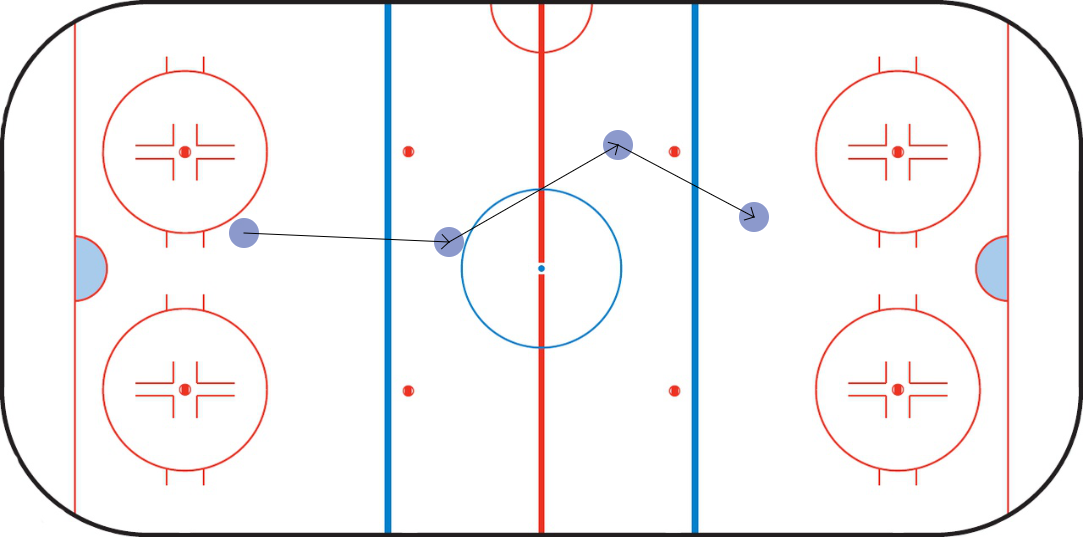
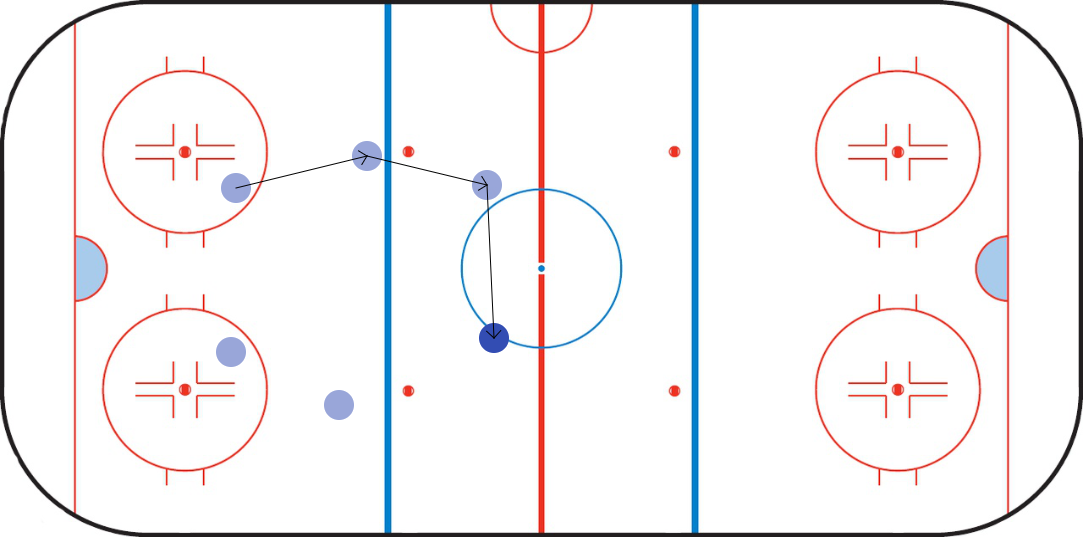
update TR

diff --git a/VisuaLing/src/gui/Interface_temps_reelController.java b/VisuaLing/src/gui/Interface_temps_reelController.java
@@ -1761,21 +1761,21 @@ public class Interface_temps_reelController extends Application implements Initi
                                 path.setLayoutY((0-j.getListeDeplacement().get(0).y));
                                 path.getElements().add(new MoveTo(j.getListeDeplacement().get(0).x,j.getListeDeplacement().get(0).y));
                                 
-                                pathRole.setLayoutX((0-j.getListeDeplacement().get(0).x)+0);
-                                pathRole.setLayoutY((0-j.getListeDeplacement().get(0).y)-0);
+                                pathRole.setLayoutX((0-j.getListeDeplacement().get(0).x)+20);
+                                pathRole.setLayoutY((0-j.getListeDeplacement().get(0).y)-15);
                                 pathRole.getElements().add(new MoveTo(j.getListeDeplacement().get(0).x,j.getListeDeplacement().get(0).y));
                                 
                                 
-                                pathOrientation.setLayoutX((0-j.getListeDeplacement().get(0).x)-0);
-                                pathOrientation.setLayoutY((0-j.getListeDeplacement().get(0).y)-0);
+                                pathOrientation.setLayoutX((0-j.getListeDeplacement().get(0).x)-6);
+                                pathOrientation.setLayoutY((0-j.getListeDeplacement().get(0).y)-35);
                                 pathOrientation.getElements().add(new MoveTo(j.getListeDeplacement().get(0).x,j.getListeDeplacement().get(0).y ));
                                 
-                                pathGauche.setLayoutX((0-j.getListeDeplacement().get(0).x)-0);
-                                pathGauche.setLayoutY((0-j.getListeDeplacement().get(0).y)-0);
+                                pathGauche.setLayoutX((0-j.getListeDeplacement().get(0).x)-35);
+                                pathGauche.setLayoutY((0-j.getListeDeplacement().get(0).y)-20);
                                 pathGauche.getElements().add(new MoveTo(j.getListeDeplacement().get(0).x,j.getListeDeplacement().get(0).y));
                                 
-                                pathDroite.setLayoutX((0-j.getListeDeplacement().get(0).x)+0);
-                                pathDroite.setLayoutY((0-j.getListeDeplacement().get(0).y)+0);
+                                pathDroite.setLayoutX((0-j.getListeDeplacement().get(0).x)+5);
+                                pathDroite.setLayoutY((0-j.getListeDeplacement().get(0).y)+20);
                                 pathDroite.getElements().add(new MoveTo(j.getListeDeplacement().get(0).x,j.getListeDeplacement().get(0).y));
                                 
                                 
@@ -1784,10 +1784,10 @@ public class Interface_temps_reelController extends Application implements Initi
                                 while(i<j.getListeDeplacement().size())
                                 {
                                     path.getElements().add(new LineTo(j.getListeDeplacement().get(i).x,j.getListeDeplacement().get(i).y ));
-                                    pathRole.getElements().add(new LineTo(j.getListeDeplacement().get(i).x+20,j.getListeDeplacement().get(i).y-15 ));
-                                    pathOrientation.getElements().add(new LineTo(j.getListeDeplacement().get(i).x-6,j.getListeDeplacement().get(i).y-35 ));
-                                    pathGauche.getElements().add(new LineTo(j.getListeDeplacement().get(i).x-35,j.getListeDeplacement().get(i).y-20 ));
-                                    pathDroite.getElements().add(new LineTo(j.getListeDeplacement().get(i).x+5,j.getListeDeplacement().get(i).y+20 ));
+                                    pathRole.getElements().add(new LineTo(j.getListeDeplacement().get(i).x+20,j.getListeDeplacement().get(i).y-0 ));
+                                    pathOrientation.getElements().add(new LineTo(j.getListeDeplacement().get(i).x-6,j.getListeDeplacement().get(i).y-0 ));
+                                    pathGauche.getElements().add(new LineTo(j.getListeDeplacement().get(i).x-35,j.getListeDeplacement().get(i).y-0 ));
+                                    pathDroite.getElements().add(new LineTo(j.getListeDeplacement().get(i).x+5,j.getListeDeplacement().get(i).y+0 ));
 
                                     i++;
                                 }
